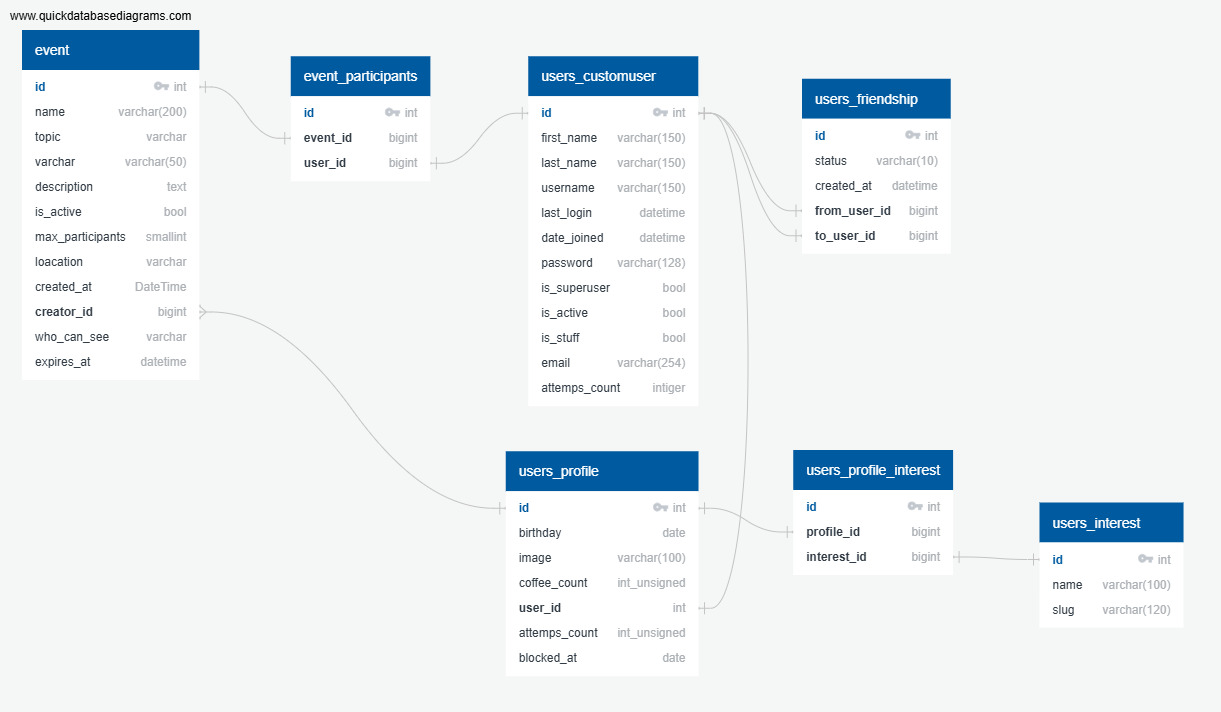
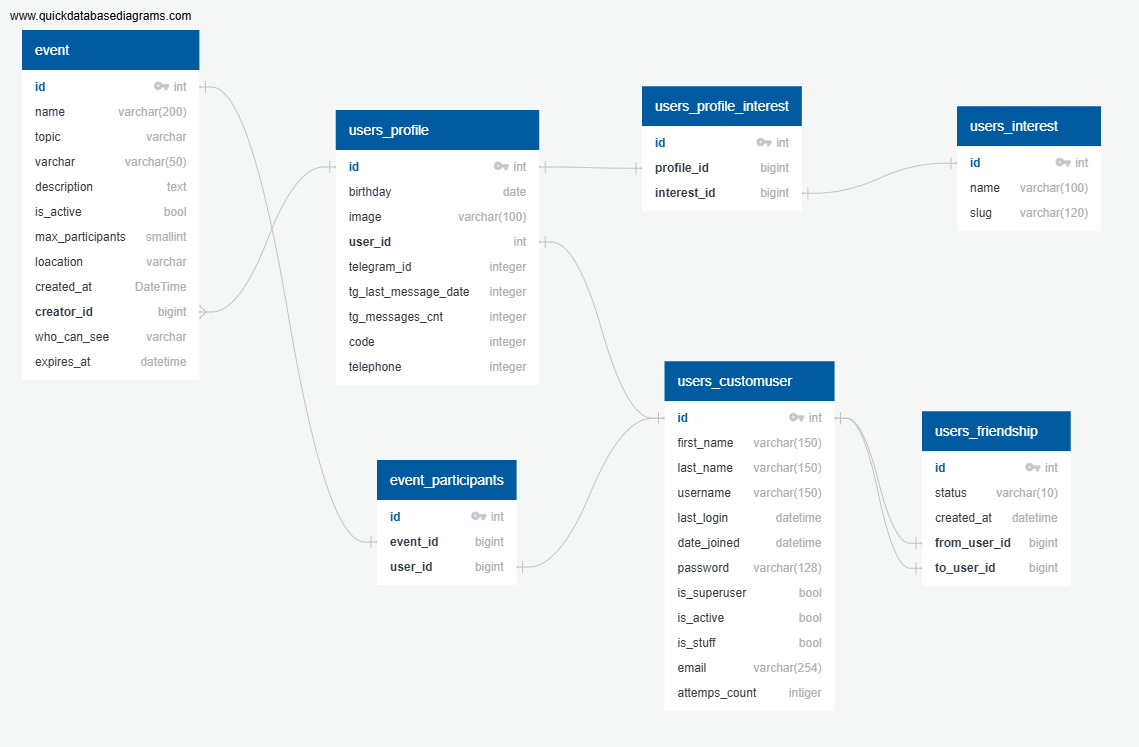
UPDATED: ER updated, some translations were added

diff --git a/randoccasion/templates/users/friends_list.html b/randoccasion/templates/users/friends_list.html
@@ -1,6 +1,7 @@
 {% extends "base.html" %}
+{% load i18n %}
 {% block content %}
-<h2>Мои друзья</h2>
+<h2>{% translate "Мои друзья" %}</h2>
 
 {% if friends %}
     <ul>
@@ -13,14 +14,14 @@
                     {% csrf_token %}
                     <button type="submit" name="remove_friend" class="btn btn-sm btn-danger"
                     onclick="return confirm('Вы уверены, что хотите удалить {{ friend.username }} из друзей?')">
-                    Удалить из друзей
+                    {% translate "Удалить из друзей" %}
                 </button>
             </form>
         </li>
     {% endfor %}
     </ul>
 {% else %}
-    <p class="text-muted">У вас пока нет друзей.</p>
+    <p class="text-muted">{% translate "У вас пока нет друзей." %}</p>
 {% endif %}
 
 {% endblock %}

diff --git a/randoccasion/templates/events/create_event.html b/randoccasion/templates/events/create_event.html
@@ -1,4 +1,5 @@
 {% extends "base.html" %}
+{% load i18 %}
 {% load static %}
 
 {% block title %}Создать событие{% endblock %}
@@ -9,7 +10,7 @@
         <div class="col-lg-8">
             <div class="card shadow-sm">
                 <div class="card-header bg-primary text-white">
-                    <h3 class="mb-0">Создать новое событие</h3>
+                    <h3 class="mb-0">{% translate "Создать новое событие" %}</h3>
                 </div>
                 <div class="card-body">
                     <form method="post" action="{% url 'events:create_event' %}">